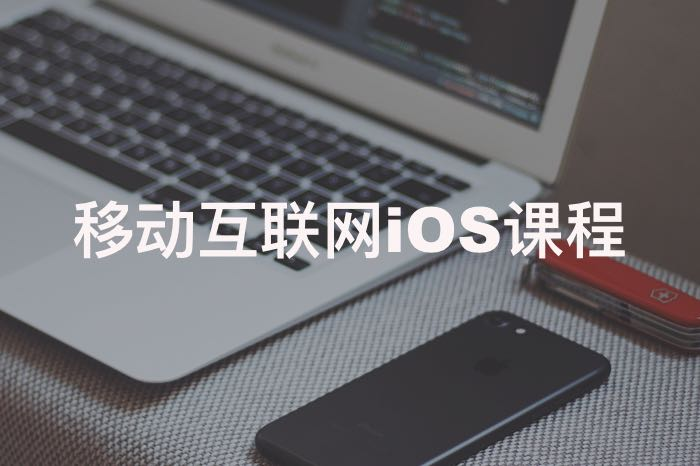
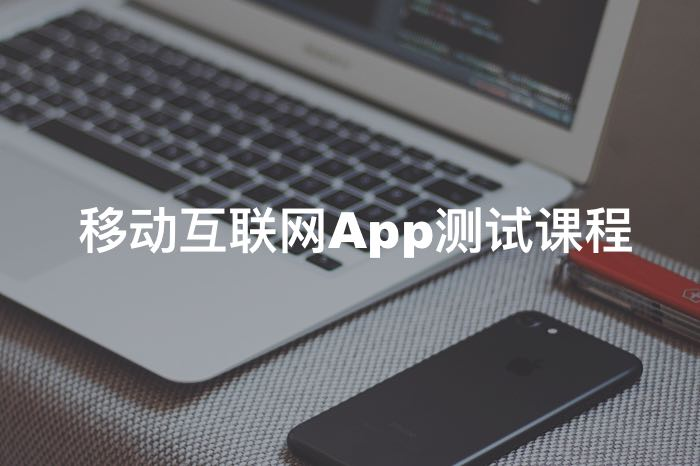
change images

diff --git a/index.html b/index.html
@@ -583,11 +583,11 @@
                                     <a target="_blank" href="http://wpa.qq.com/msgrd?v=3&uin=2576179120&site=qq&menu=yes"><i class="fa fa-qq icon-view"></i></a>
                                 </span>
                                 <span class="icon">
-                                     <i name="移动互联网测试课程" id="images/portfolio/test_classes.png" class="fa fa-align-justify fa-calendar icon-view-new"></i>
+                                     <i name="移动互联网App测试课程" id="images/portfolio/test_classes.png" class="fa fa-align-justify fa-calendar icon-view-new"></i>
                                 </span>
                                 <br>
                                 <span class="pf_text" style="text-align:center;display:inline-block;">
-                                    <span class="project-name" style='margin: 0px 0px 20px 0px;'>移动互联网测试课程</span>
+                                    <span class="project-name" style='margin: 0px 0px 20px 0px;'>移动互联网App测试课程</span>
                                     <span style="float:left">*  12次课 原价<span class="id-color" style="text-decoration:line-through;"> ¥5000 </span>，08/05日之前报名 <span style="color:#F47C53;"> ¥3999 </span></span>
                                     <br>
                                     <span style="float:left">*  每次课90-120分钟</span>
